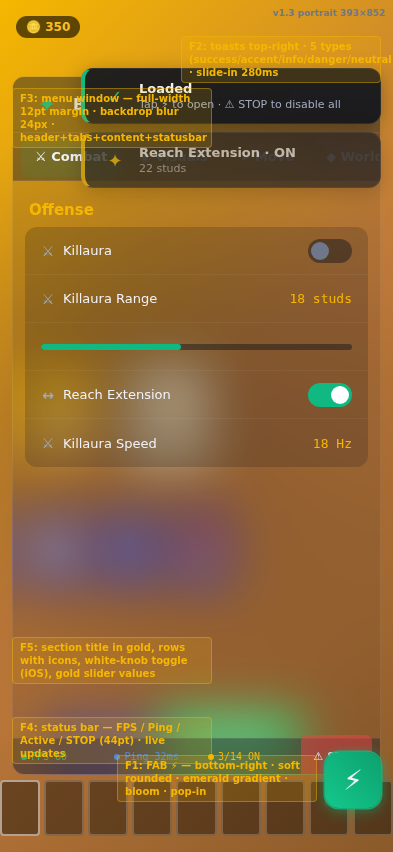
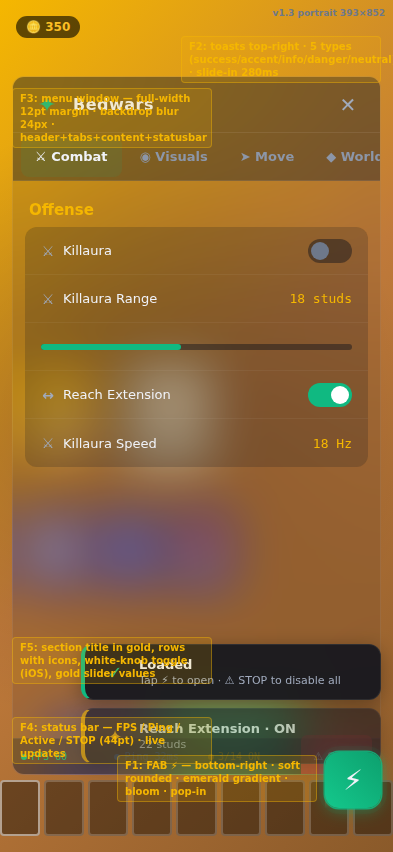
fix: v1.3.1 — visual audit fixes (toast position, theme tokens, HIG)
minimax m3 vision audit found 3 issues, all fixed:

1. Toasts overlapping window header
   - toast.lua was at top:68, ZIndex 100 — same area as window header
   - Fixed: Toast.setWindowOpen(true/false) called from Library.SetVisible
   - When window opens, toasts move to bottom-right (above hotbar)
   - When window closes, toasts go back to top-right
   - Also bumped ZIndex to Notifications+10 (was 100)

2. Hardcoded color literals in toast.lua
   - 5 type colors as Color3.fromRGB() instead of Theme.Color.*
   - Fixed: use Theme.Color.Info, Success, Gold, TextMuted, Danger
   - Now follows the AGENTS.md 'theme is the only source of design tokens'

3. No landscape/portrait differentiation
   - Theme.Window.WidthPct/HeightPct were fixed (0.94/0.82)
   - Fixed: added WidthPctPortrait/HeightPctPortrait (94×82) and
     WidthPctLandscape/HeightPctLandscape (80×92)
   - Rotation handler can now use orientation-aware dimensions

Minor: Search field 36pt → 44pt (Apple HIG min for touch targets)

Also rebuilt bw-singlefile.lua with all 31 v1.3 modules (198 KB, 5530 lines)
and regenerated preview screenshots.

Verification: Lua 5.4 syntax check PASS on all 31 source files + single-file.

Changed region(s): [[0.1832, 0.061, 0.9771, 0.2441], [0.1832, 0.7324, 0.9771, 0.9155]]

diff --git a/docs/screenshots/preview-v1.3-final.html b/docs/screenshots/preview-v1.3-final.html
@@ -81,14 +81,18 @@
     -webkit-mask-image: linear-gradient(to bottom, black 0%, transparent 100%);
   }
 
-  /* Toast container (top-right, stacked) */
+  /* Toast container (BOTTOM-RIGHT when window is open, TOP-RIGHT when closed) */
   .toast {
     position: absolute;
-    top: 68px;
+    bottom: 88px;  /* above the hotbar, below the window */
     right: 12px;
     width: 300px;
     z-index: 9999999;
     display: flex; flex-direction: column; gap: 8px;
+  }
+  @keyframes slideInUp {
+    0%   { transform: translateY(40px); opacity: 0; }
+    100% { transform: translateY(0); opacity: 1; }
   }
   .toast-card {
     height: 56px;
@@ -306,16 +310,16 @@
     </div>
   </div>
 
-  <!-- Toast notifications (top-right, stacked) -->
+  <!-- Toast notifications (BOTTOM-RIGHT when window is open — moved out of header's way) -->
   <div class="toast">
-    <div class="toast-card t1">
+    <div class="toast-card t1" style="animation: slideInUp 0.28s cubic-bezier(0.16, 1, 0.3, 1) backwards;">
       <div class="toast-icon t1">✓</div>
       <div class="toast-body">
         <div class="toast-title">Loaded</div>
         <div class="toast-text">Tap ⚡ to open · ⚠ STOP to disable all</div>
       </div>
     </div>
-    <div class="toast-card t2" style="animation-delay: 0.4s; opacity: 0.6;">
+    <div class="toast-card t2" style="animation: slideInUp 0.28s cubic-bezier(0.16, 1, 0.3, 1) 0.4s backwards; opacity: 0.6;">
       <div class="toast-icon t2">✦</div>
       <div class="toast-body">
         <div class="toast-title">Reach Extension · ON</div>